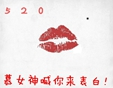
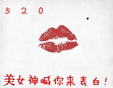
detail-improvement

Changed region(s): [[0.0265, 0.8409, 0.1327, 0.9773]]

diff --git a/news.html b/news.html
@@ -2,7 +2,7 @@
 <html lang="en">
 <head>
     <meta charset="UTF-8">
-    <title>Title</title>
+    <title>美美学习网</title>
 <link href="css/main.css" rel="stylesheet" type="text/css"/>
     <script type="text/javascript" src="js/setHomeSetFav.js"></script>
 </head>
@@ -19,7 +19,7 @@
 <div class="wrap">
     <div class="logo">
         <div class="logo_left">
-            <img src="images/logo.jpg" alt="慕课网">
+            <img src="images/logo.png" alt="美美学习网">
         </div>
         <div class="logo_right">
             <img src="images/tel.jpg" alt="服务热线">24小时服务热线:<span class="tel">123-456-7890</span>
@@ -31,7 +31,7 @@
             <div class="nav_mid_left">
                 <ul>
                     <li><a href="#">首页</a></li>
-                    <li><a href="list.html">关于慕课</a></li>
+                    <li><a href="list.html">关于美美</a></li>
                     <li><a href="list.html">新闻动态</a></li>
                     <li><a href="list.html">在线课程</a></li>
                     <li><a href="list.html">人才招聘</a></li>
@@ -53,12 +53,12 @@
             <h2>新闻中心</h2>
             <div class="xinwenleft_content">
                 <ul>
-                    <li><a href="#">公司新闻</a></li>
+                    <li><a href="#">美美新闻</a></li>
                     <li><a href="#">行业新闻</a></li>
                     <li><a href="#">媒体报道</a></li>
                     <li><a href="#">活动专题</a></li>
                     <li><a href="#">精彩视频</a></li>
-                    <li><a href="#">行业下载</a></li>
+                    <li><a href="#">视频下载</a></li>
                     <li><a href="#">公司内刊</a></li>
                 </ul>
             </div>
@@ -69,14 +69,14 @@
 
 
                 <ul>
-                    <li><a href="#">【慕客访谈 用户篇】“有为屌丝”在路上</a><span>2014-06-01</span> </li>
-                    <li><a href="#">【有奖活动】给父亲的三行书信</a><span>2014-06-01</span> </li>
-                    <li><a href="#">《程序猿，请晒出你的童年》活动获奖公告</a><span>2014-05-30</span> </li>
-                    <li><a href="#">【慕课访谈】破茧成蝶——美女程序员的蜕变史</a><span>2014-05-28</span> </li>
-                    <li><a href="#">【慕客访谈 用户篇】“有为屌丝”在路上</a><span>2014-06-01</span> </li>
-                    <li><a href="#">【有奖活动】给父亲的三行书信</a><span>2014-06-01</span> </li>
-                    <li><a href="#">《程序猿，请晒出你的童年》活动获奖公告</a><span>2014-05-30</span> </li>
-                    <li><a href="#">【慕课访谈】破茧成蝶——美女程序员的蜕变史</a><span>2014-05-28</span> </li>
+                    <li><a href="#">【美美访谈 用户篇】“有为屌丝”在路上</a><span>2016-06-01</span> </li>
+                    <li><a href="#">【有奖活动】给父亲的三行书信</a><span>2016-06-01</span> </li>
+                    <li><a href="#">《程序猿，请晒出你的童年》活动获奖公告</a><span>2016-05-30</span> </li>
+                    <li><a href="#">【美美访谈】破茧成蝶——美女程序员的蜕变史</a><span>2016-05-28</span> </li>
+                    <li><a href="#">【美美访谈 用户篇】“有为屌丝”在路上</a><span>2016-06-01</span> </li>
+                    <li><a href="#">【有奖活动】给父亲的三行书信</a><span>2016-06-01</span> </li>
+                    <li><a href="#">《程序猿，请晒出你的童年》活动获奖公告</a><span>2016-05-30</span> </li>
+                    <li><a href="#">【美美访谈】破茧成蝶——美女程序员的蜕变史</a><span>2016-05-28</span> </li>
                 </ul>
             </div>
             <div class="page">

diff --git a/main.html b/main.html
@@ -27,7 +27,7 @@
 <div class="wrap">
     <div class="logo">
         <div class="logo_left">
-            <img src="images/logo.jpg" alt="慕课网">
+            <img src="images/logo.jpg" alt="美美学习网">
         </div>
         <div class="logo_right">
             <img src="images/tel.jpg" alt="服务热线">24小时服务热线:<span class="tel">123-456-7890</span>
@@ -39,7 +39,7 @@
             <div class="nav_mid_left">
                <ul>
                     <li><a href="#">首页</a></li>
-                    <li><a href="list.html">关于慕课</a></li>
+                    <li><a href="list.html">关于美美</a></li>
                     <li><a href="list.html">新闻动态</a></li>
                     <li><a href="list.html">在线课程</a></li>
                     <li><a href="list.html">人才招聘</a></li>
@@ -69,7 +69,7 @@
                 <span class="title_right"><a href="#">More&gt;&gt;</a></span>
             </div>
             <div class="pic_news">
-                <img src="images/news.jpg"><h2><a href="#">520 慕女神喊你来表白！</a></h2>
+                <img src="images/news.jpg"><h2><a href="#">520 美女神喊你来表白！</a></h2>
                 <p>活动时间：5月20日—5月25日<br/>
                     获奖公布时间：5月26日<br>
                 <a href="#">Learn More&gt;&gt;</a>
@@ -77,10 +77,10 @@
             </div>
             <div class="news_list">
                 <ul>
-                    <li><a href="#">【慕客访谈 用户篇】“有为屌丝”在路上</a><span>2014-06-01</span> </li>
+                    <li><a href="#">【美美访谈 用户篇】“有为屌丝”在路上</a><span>2014-06-01</span> </li>
                     <li><a href="#">【有奖活动】给父亲的三行书信</a><span>2014-06-01</span> </li>
                     <li><a href="#">《程序猿，请晒出你的童年》活动获奖公告</a><span>2014-05-30</span> </li>
-                    <li><a href="#">【慕课访谈】破茧成蝶——美女程序员的蜕变史</a><span>2014-05-28</span> </li>
+                    <li><a href="#">【美美访谈】破茧成蝶——美女程序员的蜕变史</a><span>2014-05-28</span> </li>
                 </ul>
             </div>
         </div><!--news结束-->

diff --git a/css/main.css b/css/main.css
@@ -65,7 +65,7 @@ body{
 .nav{
     height: 40px;
     /*display: inline;*/
-    background-color: saddlebrown;
+    background-color:  #D4105A;
 
 }
 .nav_left{
